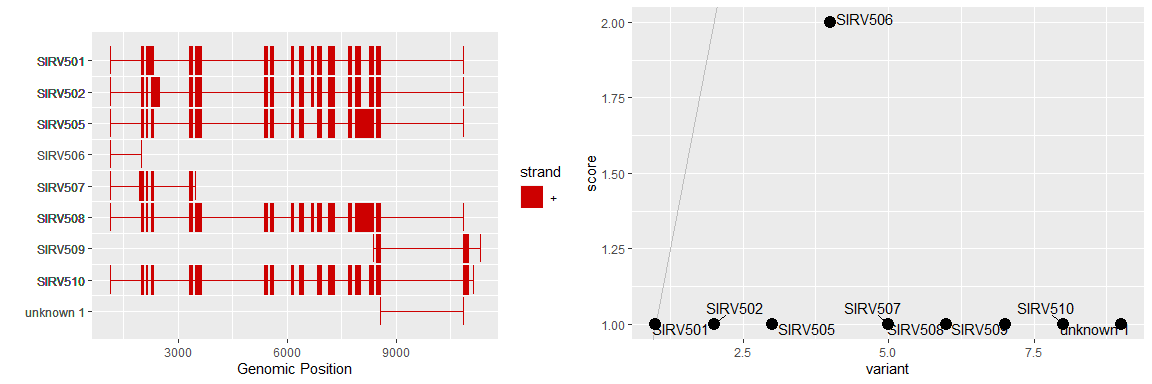
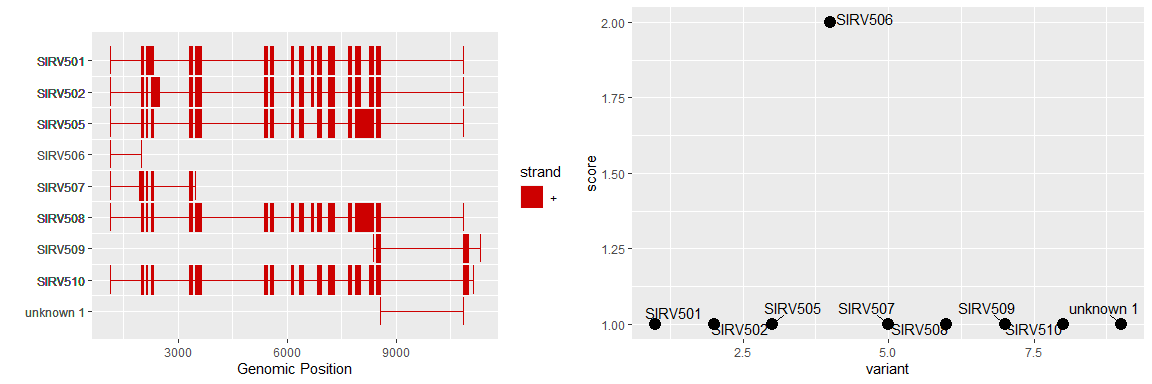
Updated README

Changed region(s): [[0.5625, 0.7812, 1.0, 0.875]]

diff --git a/README.md b/README.md
@@ -30,7 +30,12 @@ plot_wrapper(file, min_count = 5, quant_plot = TRUE)
 
 The above example can be reproduced using the individual functions that
 `plot_wrapper()` is a wrapper around. This allows more options to be
-specified.
+specified. The `order_splices` argument in draw_splice_picture accepts
+one of (one of ‘score’, ‘name’, NULL) default NULL. This refers to the
+ordering of the splices on the y axis (on the left hand plot), ‘score’
+will sort data by score (highest at the top), ‘name’ will sort data
+alphabetically (with unknowns at the bottom). `draw_splice_picture` also
+allows a particular gene to be specified with the `gene` argument.
 
 ``` r
 file <- system.file("extdata", "nexons_sirv5_f15.gtf", package = "nexonsAnalysis")
@@ -48,7 +53,6 @@ draw_splice_picture(parsed_splices, quant = TRUE, order_splices = "score", gene=
 ``` r
 file <- system.file("extdata", "sirv5.txt", package = "nexonsAnalysis")
 nexons_output <- readr::read_delim(file)
-# To plot the splice pictures for 1 sample
 parsed_splices <- parse_default_nexons(nexons_output, score_column = "seqs_sirv5_minimap.sam")
 draw_splice_picture(parsed_splices, quant = TRUE, order_splices = "name")
 ```
@@ -65,19 +69,20 @@ nexons_output <- readr::read_delim(file)
 # get names of datasets - there are 2 in this file
 count_columns <- tail(colnames(nexons_output), n=2)
 parsed_splices <- purrr::map(count_columns, parse_default_nexons, nexons_output=nexons_output)
-purrr::map(parsed_splices, draw_splice_picture, quant=TRUE, order_splices = "score")
+p <- purrr::map(parsed_splices, draw_splice_picture, quant=TRUE, order_splices = "score")
 ```
 
 ![](man/figures/README-unnamed-chunk-5-1.png)![](man/figures/README-unnamed-chunk-5-2.png)
+\### Adding titles to the plots
 
-    FALSE [[1]]
-    FALSE TableGrob (1 x 2) "arrange": 2 grobs
-    FALSE   z     cells    name           grob
-    FALSE 1 1 (1-1,1-1) arrange gtable[layout]
-    FALSE 2 2 (1-1,2-2) arrange gtable[layout]
-    FALSE 
-    FALSE [[2]]
-    FALSE TableGrob (1 x 2) "arrange": 2 grobs
-    FALSE   z     cells    name           grob
-    FALSE 1 1 (1-1,1-1) arrange gtable[layout]
-    FALSE 2 2 (1-1,2-2) arrange gtable[layout]
+``` r
+file <- system.file("extdata", "sirv5.txt", package = "nexonsAnalysis")
+nexons_output <- readr::read_delim(file)
+# get names of datasets - there are 2 in this file
+count_columns <- tail(colnames(nexons_output), n=2)
+parsed_splices <- purrr::map(count_columns, parse_default_nexons, nexons_output=nexons_output) |>
+  purrr::set_names(count_columns)
+p <- purrr::imap(parsed_splices, ~ draw_splice_picture(.x, title_text=.y, quant=TRUE, order_splices = "score"))
+```
+
+![](man/figures/README-unnamed-chunk-6-1.png)![](man/figures/README-unnamed-chunk-6-2.png)
